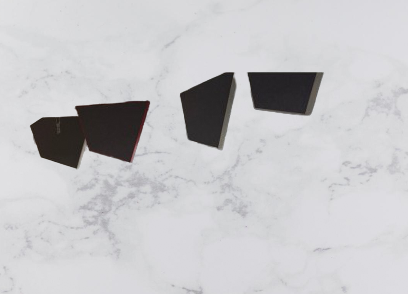
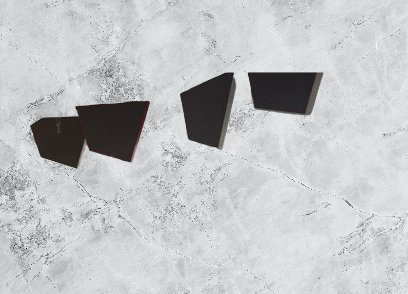
add more darkModer

diff --git a/lib/pages/event_pages/rooms.dart b/lib/pages/event_pages/rooms.dart
@@ -3,11 +3,22 @@ import 'dart:ui';
 
 import 'package:flutter/material.dart';
 
-class CustomPage extends StatelessWidget {
+class CustomPage extends StatefulWidget {
+  @override
+  _CustomPageState createState() => _CustomPageState();
+}
+
+bool _isDarkMode = false;
+
+class _CustomPageState extends State<CustomPage> {
+  //bool _isDarkMode = false;
   @override
   Widget build(BuildContext context) {
     return Scaffold(
-      backgroundColor: Color.fromARGB(255, 191, 204, 224),
+      backgroundColor: _isDarkMode
+          ? Colors.black
+          : Color.fromARGB(
+              255, 191, 204, 224), // Color.fromARGB(255, 191, 204, 224),
       appBar: AppBar(
         title: Text("THE PERFECT ROOM"),
         centerTitle: true,
@@ -16,8 +27,12 @@ class CustomPage extends StatelessWidget {
         leading: Icon(Icons.menu),
         actions: [
           IconButton(
-            onPressed: () {},
-            icon: Icon(Icons.dark_mode),
+            onPressed: () {
+              setState(() {
+                _isDarkMode = !_isDarkMode;
+              });
+            },
+            icon: _isDarkMode ? Icon(Icons.light_mode) : Icon(Icons.dark_mode),
           ),
           Padding(
             padding: const EdgeInsets.only(right: 15.0),
@@ -25,7 +40,7 @@ class CustomPage extends StatelessWidget {
               icon: Icon(Icons.shopping_cart),
               onPressed: () => Navigator.pushNamed(context, '/cartPage'),
             ),
-          )
+          ),
         ],
       ),
       body: Stack(
@@ -41,7 +56,9 @@ class CustomPage extends StatelessWidget {
           ImageFiltered(
             imageFilter: ImageFilter.blur(sigmaX: 5.0, sigmaY: 5.0),
             child: Container(
-              color: Color.fromARGB(251, 233, 239, 249).withOpacity(0.8),
+              color: _isDarkMode
+                  ? Color.fromARGB(255, 2, 15, 37).withOpacity(0.85)
+                  : Color.fromARGB(255, 33, 56, 93).withOpacity(0.85),
             ),
           ),
           ListView(
@@ -91,7 +108,8 @@ class CustomWidget extends StatelessWidget {
       child: Column(
         children: [
           Container(
-            color: Color.fromARGB(85, 33, 56, 93),
+            color: Color.fromARGB(84, 214, 221, 233),
+            //Color.fromARGB(85, 33, 56, 93),
             padding: EdgeInsets.all(8.0),
             child: Text(
               title,

diff --git a/lib/pages/start_page.dart b/lib/pages/start_page.dart
@@ -14,7 +14,7 @@ class StartPage extends StatefulWidget {
 
 class _StartPageState extends State<StartPage>
     with SingleTickerProviderStateMixin {
-  bool _isDarkMode = false;
+  //bool _isDarkMode = false;
   int _currentImageIndex = 0;
   late Timer _timer;
 
@@ -76,7 +76,7 @@ class _StartPageState extends State<StartPage>
         backgroundColor: Color.fromARGB(210, 186, 197, 214),
         elevation: 4,
         leading: Icon(Icons.menu),
-        actions: [
+        /*actions: [
           IconButton(
             onPressed: () {
               setState(() {
@@ -85,17 +85,16 @@ class _StartPageState extends State<StartPage>
             },
             icon: _isDarkMode ? Icon(Icons.light_mode) : Icon(Icons.dark_mode),
           ),
-        ],
+        ],*/
       ),
-      backgroundColor:
-          _isDarkMode ? Colors.black : Color.fromARGB(255, 33, 56, 93),
+      backgroundColor: /*_isDarkMode ?*/ Colors.black,
       body: Stack(
         fit: StackFit.expand,
         children: [
           Transform.rotate(
             angle: 45 * (pi / 1.5), // Rotationswinkel in Grad
             child: Image.asset(
-              "lib/images/BG7.png", // Pfad zu deinem Hintergrundbild
+              "lib/images/BG2.png", // Pfad zu deinem Hintergrundbild
               fit: BoxFit.cover,
             ),
           ),
@@ -103,9 +102,9 @@ class _StartPageState extends State<StartPage>
           ImageFiltered(
             imageFilter: ImageFilter.blur(sigmaX: 5.0, sigmaY: 5.0),
             child: Container(
-              color: _isDarkMode
-                  ? Color.fromARGB(255, 0, 5, 14).withOpacity(0.8)
-                  : Color.fromARGB(255, 20, 34, 58).withOpacity(0.8),
+              color: //_isDarkMode
+                  //  Color.fromARGB(255, 2, 15, 37).withOpacity(0.89)
+                  Color.fromARGB(255, 26, 43, 71).withOpacity(0.85),
             ),
           ),
           Column(
